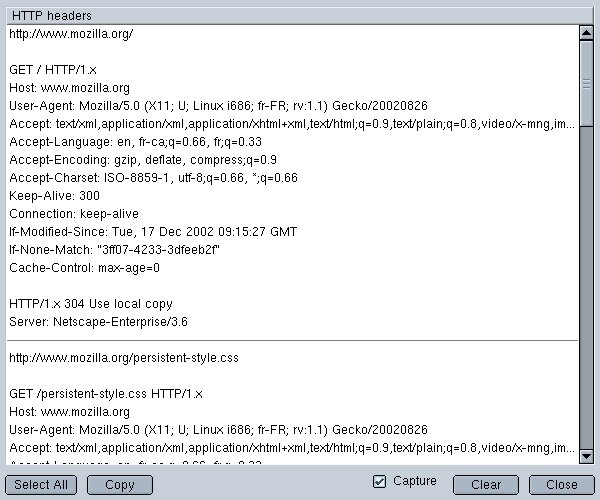
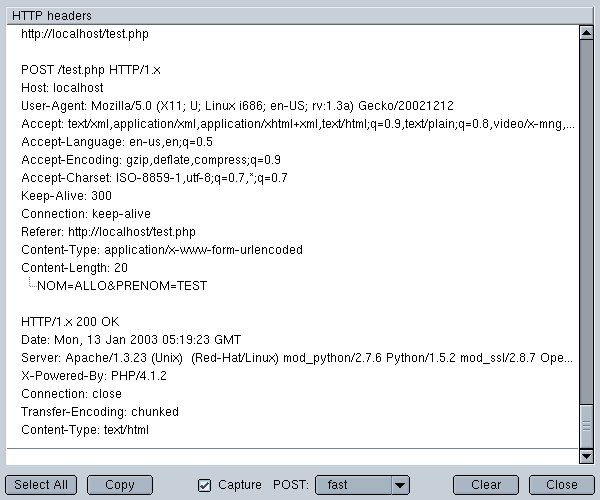
New version 0.2 available.

diff --git a/installation.html b/installation.html
@@ -3,12 +3,12 @@
 
 function triggerURL(url) {
 
-        if (!InstallTrigger.updateEnabled())
+        if (!InstallTrigger.updateEnabled()) {
           return false; 
-
-        else
+        } else {
           InstallTrigger.startSoftwareUpdate(url); 
-
+          return true;
+        }
 }
 
 //-->
@@ -18,7 +18,9 @@ function triggerURL(url) {
 <!-- MAIN CONTENT -->
 <h5 class="page-header">Installation</h5>
 
-<p><a href="#" onclick="triggerURL('http://livehttpheaders.mozdev.org/livehttpheaders.xpi');">Install LiveHTTPHeaders now</a></p>
+<p><a href="#" onclick="triggerURL('http://livehttpheaders.mozdev.org/livehttpheaders.xpi');">Install the latest version of LiveHTTPHeaders now</a></p>
+<p><a href="#" onclick="triggerURL('http://livehttpheaders.mozdev.org/livehttpheaders-0.2.xpi');">Install version 0.2 of LiveHTTPHeaders now</a></p>
+<p><a href="#" onclick="triggerURL('http://livehttpheaders.mozdev.org/livehttpheaders-0.1.xpi');">Install version 0.1 of LiveHTTPHeaders now</a></p>
 
 
 <p><!--<?php downloads('livehttpheaders.xpi', 'downloads'); ?>--></p>
@@ -37,4 +39,15 @@ Don't try it on a lower version of Mozilla!</B></P>
 <li>chrome/overlayinfo/navigator/content/overlays.rdf</li>
 </ul>
 </p>
+
+<P>What is new in version 0.2
+<ul>
+<li>POST Content and headers is now shown</li>
+<li>Error in French locale corrected (need to use UTF-8 instead of HTML encoding) (thanks to Paul Lacourse)</li>
+</ul>
+
+<P>What is new in version 0.1
+<ul>
+<li>This is the first version...</li>
+</ul>
 

diff --git a/todo.html b/todo.html
@@ -1,9 +1,10 @@
 <!-- MAIN CONTENT -->
 <p><h5>TODO:</H5></p>
 <ul>
-<li><b>Add a Content-Length and Content-Type for POST request</b><br>
-  Theses two headers are sent to the server but are not available throw the
-  mozilla API...
+<li><b>Find a fast way to get POST Data when file upload are used</b><br>
+  There is currently a bug (See bug #188328) that cause problem when there is a file upload in
+  the post data.  If you want to see post data with file upload, you need to select 'slow' in
+  the LiveHTTPHeaders window.
 </li>
 <li><b>Add Save button in live header dialog</b><br>
   Clipboards seem to be limited in size (copy all button) at least on linux
@@ -18,6 +19,14 @@
 <li><b>Try to detect same url in two tabs</b><br>
   If the same URL is loaded in two TABS in the same window, the information
   about the second URL will update the information about the first one
+</li>
+<li><b>Try to detect the version of HTTP used for request (HTTP/1.0 or HTTP/1.1)</b><br>
+  LiveHTTPHeaders show HTTP/1.x for HTTP version.  Try to find a way to get the version
+  used by Mozilla to make its HTTP request and show it instead of 1.x.
+</li>
+<li><b>Add a way to scroll headers left to right</b><br>
+  Some headers are very long.  Find a way to display them on screen.  
+  (Limitation of tree object.  They have no horizontal scroll bar)
 </li>
 </ul>
 

diff --git a/index.html b/index.html
@@ -37,3 +37,6 @@
 <li>See the cookies sent by remote site.</li>
 </ul>
 </p>
+I hope this will be useful for you.<BR>
+Daniel Savard<BR>
+
